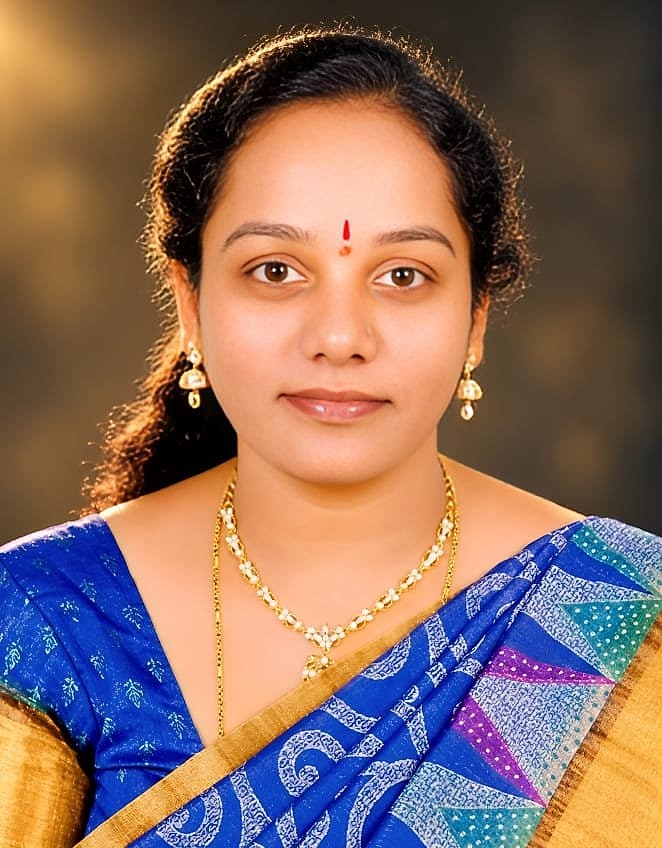
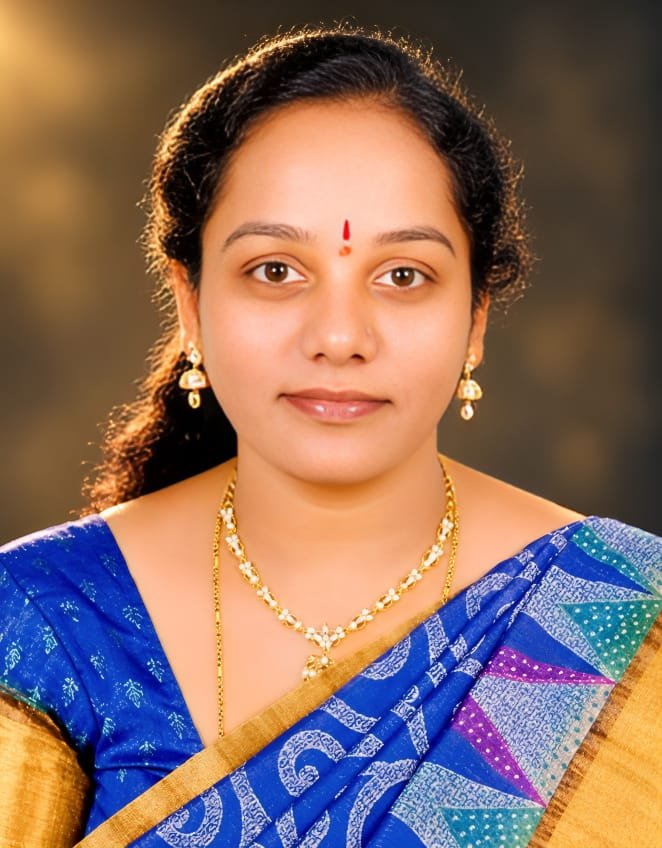
feat(leadership): display Director Divya D K in signature executive card layout with high-res portrait

diff --git a/src/app/about/page.tsx b/src/app/about/page.tsx
@@ -118,66 +118,43 @@ export default function AboutPage() {
                 turnkey technology solutions that endure.
               </FadeIn>
 
-              {/* Executive Board of Directors with Prominent Portrait Cards */}
+              {/* Executive Credentials Callout */}
               <FadeIn
                 mode="view"
-                delay={0.38}
+                delay={0.36}
                 y={14}
-                className="p-5 sm:p-6 rounded-3xl border border-brand-border bg-slate-50/80 shadow-xs space-y-4"
+                className="p-5 sm:p-6 rounded-3xl border border-brand-border bg-slate-50/80 shadow-xs space-y-3"
               >
                 <div className="flex items-center justify-between">
                   <p className="text-xs uppercase font-bold tracking-wider text-brand-blue flex items-center gap-1.5">
                     <ShieldCheck className="w-4 h-4 text-brand-blue" />
-                    <span>Executive Board of Directors</span>
+                    <span>Executive Leadership &amp; Governance</span>
                   </p>
-                  <span className="text-xs text-slate-500 font-medium">New Link Technologies Bangalore Pvt. Ltd.</span>
+                  <span className="text-xs text-slate-500 font-medium">Headquartered in Bangalore</span>
                 </div>
 
-                <div className="grid grid-cols-1 sm:grid-cols-2 gap-4 pt-1">
-                  {COMPANY_DETAILS.leadership.directors.map((director) => (
-                    <div
-                      key={director.name}
-                      className="group relative rounded-2xl overflow-hidden border-4 border-white shadow-xl bg-slate-900 aspect-3/4 flex flex-col justify-end"
-                    >
-                      <Image
-                        src={director.image}
-                        alt={`${director.name} - ${director.role}, ${COMPANY_DETAILS.name}`}
-                        fill
-                        className="object-cover object-top group-hover:scale-105 transition-transform duration-500"
-                      />
-                      <div className="absolute inset-0 bg-linear-to-t from-slate-950/95 via-slate-950/40 to-transparent" />
-                      <div className="relative z-10 p-4 text-white">
-                        <span className="inline-block text-[10px] font-bold uppercase tracking-wider text-blue-300 bg-blue-900/70 backdrop-blur-xs px-2.5 py-0.5 rounded-full border border-blue-400/30 mb-1.5">
-                          {director.role}
-                        </span>
-                        <h4 className="font-heading font-bold text-lg text-white leading-tight">
-                          {director.name}
-                        </h4>
-                        <p className="text-xs text-blue-200 leading-tight pt-0.5 font-medium">
-                          Director, New Link Technologies Bangalore Pvt. Ltd.
-                        </p>
-                        <p className="text-[11px] text-blue-300/90 font-medium pt-1">
-                          {director.badges[0]}
-                        </p>
-                        <div className="pt-2 flex flex-col gap-1 text-[11px] text-slate-300 border-t border-white/15 mt-2">
-                          <a
-                            href={`tel:${director.phoneRaw}`}
-                            className="hover:text-blue-300 transition-colors flex items-center gap-1.5 font-medium"
-                          >
-                            <Phone className="w-3 h-3 text-blue-400 shrink-0" />
-                            <span>{director.phone}</span>
-                          </a>
-                          <a
-                            href={`mailto:${director.email}`}
-                            className="hover:text-blue-300 transition-colors flex items-center gap-1.5 font-medium truncate"
-                          >
-                            <Mail className="w-3 h-3 text-blue-400 shrink-0" />
-                            <span className="truncate">{director.email}</span>
-                          </a>
-                        </div>
-                      </div>
-                    </div>
-                  ))}
+                <div className="grid grid-cols-1 sm:grid-cols-2 gap-3 pt-1 text-xs text-brand-navy font-semibold">
+                  <div className="flex items-center gap-2 p-3 rounded-2xl bg-white border border-slate-200/80 shadow-2xs">
+                    <CheckCircle2 className="w-4 h-4 text-brand-blue shrink-0" />
+                    <span>Director-Led Quality Oversight</span>
+                  </div>
+                  <div className="flex items-center gap-2 p-3 rounded-2xl bg-white border border-slate-200/80 shadow-2xs">
+                    <CheckCircle2 className="w-4 h-4 text-brand-blue shrink-0" />
+                    <span>24/7 Enterprise SLAs &amp; Field Support</span>
+                  </div>
+                </div>
+
+                <div className="pt-2 flex flex-col sm:flex-row items-start sm:items-center justify-between gap-2 text-xs border-t border-slate-200/60">
+                  <span className="text-slate-600 font-medium">
+                    Executive Board of Directors: <strong>M.G. Girish</strong> &amp; <strong>Divya D K</strong>
+                  </span>
+                  <a
+                    href="#executive-leadership"
+                    className="inline-flex items-center gap-1 font-bold text-brand-blue hover:text-blue-700 transition-colors"
+                  >
+                    <span>View Leadership Profiles</span>
+                    <ArrowRight className="w-3.5 h-3.5" />
+                  </a>
                 </div>
               </FadeIn>
             </div>
@@ -391,7 +368,7 @@ export default function AboutPage() {
       </section>
 
       {/* Executive Leadership Section */}
-      <section className="py-16 md:py-24 bg-white border-b border-brand-border">
+      <section id="executive-leadership" className="py-16 md:py-24 bg-white border-b border-brand-border scroll-mt-24">
         <Container size="default">
           <div className="text-center max-w-3xl mx-auto mb-14">
             <FadeIn as="span" mode="view" delay={0.04} y={8} className="eyebrow-badge mb-3">
@@ -407,71 +384,81 @@ export default function AboutPage() {
               className="text-2xl sm:text-3xl md:text-4xl font-extrabold font-heading text-brand-navy tracking-tight"
             />
             <FadeIn as="p" mode="view" delay={0.22} y={14} className="mt-3 text-base text-brand-secondary">
-              Official professional profiles of the executive leadership guiding New Link Technologies Bangalore Pvt. Ltd. across Karnataka and nationwide.
+              Official leadership profiles of the directors guiding New Link Technologies Bangalore Pvt. Ltd. with technical precision, operational excellence, and enduring commitment.
             </FadeIn>
           </div>
 
           <div className="space-y-12">
             {/* Director 1: M.G. Girish */}
-            <div className="max-w-4xl mx-auto rounded-3xl border border-brand-border bg-slate-50/70 p-8 sm:p-12 shadow-sm">
+            <FadeIn
+              mode="view"
+              delay={0.12}
+              y={20}
+              className="max-w-4xl mx-auto rounded-3xl border border-brand-border bg-slate-50/70 p-6 sm:p-10 md:p-12 shadow-sm hover:shadow-md transition-shadow"
+            >
               <div className="grid grid-cols-1 md:grid-cols-12 gap-8 items-center">
                 <div className="md:col-span-5 flex justify-center">
-                  <div className="relative w-64 h-84 rounded-2xl overflow-hidden border-4 border-white shadow-xl bg-slate-900 aspect-3/4">
+                  <div className="relative w-64 h-84 sm:w-72 sm:h-96 rounded-2xl overflow-hidden border-4 border-white shadow-xl bg-slate-900 aspect-3/4">
                     <Image
                       src="/leadership/director-mg-girish.jpg"
-                      alt="M.G. Girish - Director, New Link Technologies Bangalore Pvt. Ltd."
+                      alt="M.G. Girish - Director, New Link Technologies"
                       fill
+                      priority
                       className="object-cover object-top"
                     />
-                    <div className="absolute inset-0 bg-linear-to-t from-brand-navy/85 via-transparent to-transparent" />
-                    <div className="absolute bottom-3 left-3 right-3 text-white text-center">
-                      <p className="font-heading font-bold text-base">M.G. Girish</p>
-                      <p className="text-xs text-blue-200">Director, New Link Technologies Bangalore Pvt. Ltd.</p>
+                    <div className="absolute inset-0 bg-linear-to-t from-brand-navy/90 via-transparent to-transparent" />
+                    <div className="absolute bottom-3.5 left-3 right-3 text-white text-center">
+                      <p className="font-heading font-bold text-lg">M.G. Girish</p>
+                      <p className="text-xs text-blue-200 font-medium">Director, New Link Technologies</p>
                     </div>
                   </div>
                 </div>
 
                 <div className="md:col-span-7 space-y-4 text-center md:text-left">
-                  <FadeIn as="span" mode="view" delay={0.04} y={8} className="eyebrow-badge">
-                    Executive Profile
-                  </FadeIn>
+                  <div className="inline-flex items-center gap-2 text-xs font-bold uppercase tracking-wider text-brand-blue">
+                    <span className="w-5 h-0.5 bg-brand-blue" />
+                    <span>LEADERSHIP COMMITMENT</span>
+                  </div>
                   <RevealText
                     as="h3"
                     by="word"
                     mode="view"
                     delay={0.08}
-                    stagger={0.042}
-                    text="Enterprise Technology Strategy &amp; Infrastructure Leadership"
+                    stagger={0.04}
+                    text="Driven by Precision, Value, and Enduring Integrity"
                     className="text-2xl sm:text-3xl font-extrabold font-heading text-brand-navy leading-snug"
                   />
-                  <FadeIn as="p" mode="view" delay={0.22} y={14} className="text-sm sm:text-base text-brand-secondary leading-relaxed">
+                  <FadeIn as="p" mode="view" delay={0.2} y={12} className="text-sm sm:text-base text-brand-secondary leading-relaxed">
+                    &ldquo;At New Link Technologies Bangalore Pvt. Ltd., our core mission is simple yet uncompromising: to provide enterprises, government bodies, and institutions with technology infrastructure that performs reliably 24/7/365. When you partner with us, you deal directly with dedicated engineers and an accountable leadership team.&rdquo;
+                  </FadeIn>
+                  <FadeIn as="p" mode="view" delay={0.24} y={12} className="text-sm sm:text-base text-brand-secondary leading-relaxed">
                     M.G. Girish brings more than 15 years of industry leadership and hands-on engineering expertise in enterprise IT systems, modular data centre integration, campus optical fiber networks, and public-sector EPC execution.
                   </FadeIn>
-                  <FadeIn as="p" mode="view" delay={0.26} y={14} className="text-sm sm:text-base text-brand-secondary leading-relaxed">
-                    As the founding Director of New Link Technologies Bangalore Pvt. Ltd., he leads technological strategy, strategic OEM partnerships, and end-to-end turnkey project delivery across Karnataka and nationwide.
-                  </FadeIn>
-                  <FadeIn mode="view" delay={0.32} y={10} className="pt-3 border-t border-slate-200 flex flex-wrap items-center justify-center md:justify-start gap-5 text-xs text-brand-navy font-semibold">
+                  <FadeIn mode="view" delay={0.28} y={10} className="pt-3 border-t border-slate-200 flex flex-wrap items-center justify-center md:justify-start gap-4 text-xs text-brand-navy font-semibold">
                     <span className="flex items-center gap-1.5">
                       <ShieldCheck className="w-4 h-4 text-brand-blue" />
-                      15+ Years Enterprise IT &amp; EPC Leadership
+                      Director-Led Quality Oversight
                     </span>
                     <span className="flex items-center gap-1.5">
                       <CheckCircle2 className="w-4 h-4 text-brand-blue" />
-                      Modular Data Centres &amp; Turnkey Infrastructure
+                      Connecting Values Across Karnataka
+                    </span>
+                    <span className="flex items-center gap-1.5">
+                      <Sparkles className="w-4 h-4 text-brand-blue" />
+                      15+ Years Enterprise IT &amp; EPC Leadership
                     </span>
                   </FadeIn>
-                  <div className="pt-2 flex flex-wrap items-center justify-center md:justify-start gap-4 text-xs">
+                  <div className="pt-2 flex flex-wrap items-center justify-center md:justify-start gap-3 text-xs">
                     <a
                       href="tel:+919535314141"
-                      className="inline-flex items-center gap-1.5 font-semibold text-brand-navy hover:text-brand-blue transition-colors"
+                      className="inline-flex items-center gap-1.5 font-semibold text-brand-navy hover:text-brand-blue transition-colors bg-white px-3 py-1.5 rounded-lg border border-slate-200 shadow-2xs"
                     >
                       <Phone className="w-3.5 h-3.5 text-brand-blue" />
                       <span>+91 95353 14141</span>
                     </a>
-                    <span className="text-slate-300">|</span>
                     <a
                       href="mailto:girish.mg@newlinktec.com"
-                      className="inline-flex items-center gap-1.5 font-semibold text-brand-navy hover:text-brand-blue transition-colors"
+                      className="inline-flex items-center gap-1.5 font-semibold text-brand-navy hover:text-brand-blue transition-colors bg-white px-3 py-1.5 rounded-lg border border-slate-200 shadow-2xs"
                     >
                       <Mail className="w-3.5 h-3.5 text-brand-blue" />
                       <span>girish.mg@newlinktec.com</span>
@@ -479,47 +466,54 @@ export default function AboutPage() {
                   </div>
                 </div>
               </div>
-            </div>
+            </FadeIn>
 
-            {/* Director 2: D.K. Divya */}
-            <div className="max-w-4xl mx-auto rounded-3xl border border-brand-border bg-slate-50/70 p-8 sm:p-12 shadow-sm">
+            {/* Director 2: Divya D K */}
+            <FadeIn
+              mode="view"
+              delay={0.16}
+              y={20}
+              className="max-w-4xl mx-auto rounded-3xl border border-brand-border bg-slate-50/70 p-6 sm:p-10 md:p-12 shadow-sm hover:shadow-md transition-shadow"
+            >
               <div className="grid grid-cols-1 md:grid-cols-12 gap-8 items-center">
                 <div className="md:col-span-5 flex justify-center">
-                  <div className="relative w-64 h-84 rounded-2xl overflow-hidden border-4 border-white shadow-xl bg-slate-900 aspect-3/4">
+                  <div className="relative w-64 h-84 sm:w-72 sm:h-96 rounded-2xl overflow-hidden border-4 border-white shadow-xl bg-slate-900 aspect-3/4">
                     <Image
                       src="/leadership/director-divya-dk.jpg"
-                      alt="D.K. Divya - Director, New Link Technologies Bangalore Pvt. Ltd."
+                      alt="Divya D K - Director, New Link Technologies"
                       fill
+                      priority
                       className="object-cover object-top"
                     />
-                    <div className="absolute inset-0 bg-linear-to-t from-brand-navy/85 via-transparent to-transparent" />
-                    <div className="absolute bottom-3 left-3 right-3 text-white text-center">
-                      <p className="font-heading font-bold text-base">D.K. Divya</p>
-                      <p className="text-xs text-blue-200">Director, New Link Technologies Bangalore Pvt. Ltd.</p>
+                    <div className="absolute inset-0 bg-linear-to-t from-brand-navy/90 via-transparent to-transparent" />
+                    <div className="absolute bottom-3.5 left-3 right-3 text-white text-center">
+                      <p className="font-heading font-bold text-lg">Divya D K</p>
+                      <p className="text-xs text-blue-200 font-medium">Director, New Link Technologies</p>
                     </div>
                   </div>
                 </div>
 
                 <div className="md:col-span-7 space-y-4 text-center md:text-left">
-                  <FadeIn as="span" mode="view" delay={0.04} y={8} className="eyebrow-badge">
-                    Executive Profile
-                  </FadeIn>
+                  <div className="inline-flex items-center gap-2 text-xs font-bold uppercase tracking-wider text-brand-blue">
+                    <span className="w-5 h-0.5 bg-brand-blue" />
+                    <span>LEADERSHIP COMMITMENT</span>
+                  </div>
                   <RevealText
                     as="h3"
                     by="word"
                     mode="view"
                     delay={0.08}
-                    stagger={0.042}
-                    text="Operations, Administration &amp; Organizational Leadership"
+                    stagger={0.04}
+                    text="Strategic Operations, Administration & Organizational Excellence"
                     className="text-2xl sm:text-3xl font-extrabold font-heading text-brand-navy leading-snug"
                   />
-                  <FadeIn as="p" mode="view" delay={0.22} y={14} className="text-sm sm:text-base text-brand-secondary leading-relaxed">
+                  <FadeIn as="p" mode="view" delay={0.2} y={12} className="text-sm sm:text-base text-brand-secondary leading-relaxed">
                     D.K. Divya brings more than 9 years of experience in administration, human resource support, organizational operations and business coordination.
                   </FadeIn>
-                  <FadeIn as="p" mode="view" delay={0.26} y={14} className="text-sm sm:text-base text-brand-secondary leading-relaxed">
+                  <FadeIn as="p" mode="view" delay={0.24} y={12} className="text-sm sm:text-base text-brand-secondary leading-relaxed">
                     As a key member of the company&apos;s leadership team, she has contributed to the development of the organization&apos;s business framework and operational processes.
                   </FadeIn>
-                  <FadeIn mode="view" delay={0.32} y={10} className="pt-3 border-t border-slate-200 flex flex-wrap items-center justify-center md:justify-start gap-5 text-xs text-brand-navy font-semibold">
+                  <FadeIn mode="view" delay={0.28} y={10} className="pt-3 border-t border-slate-200 flex flex-wrap items-center justify-center md:justify-start gap-4 text-xs text-brand-navy font-semibold">
                     <span className="flex items-center gap-1.5">
                       <ShieldCheck className="w-4 h-4 text-brand-blue" />
                       9+ Years Operations &amp; HR Experience
@@ -528,19 +522,22 @@ export default function AboutPage() {
                       <CheckCircle2 className="w-4 h-4 text-brand-blue" />
                       Business Framework &amp; Process Governance
                     </span>
+                    <span className="flex items-center gap-1.5">
+                      <Sparkles className="w-4 h-4 text-brand-blue" />
+                      Director-Led Quality Oversight
+                    </span>
                   </FadeIn>
-                  <div className="pt-2 flex flex-wrap items-center justify-center md:justify-start gap-4 text-xs">
+                  <div className="pt-2 flex flex-wrap items-center justify-center md:justify-start gap-3 text-xs">
                     <a
                       href="tel:+919611854426"
-                      className="inline-flex items-center gap-1.5 font-semibold text-brand-navy hover:text-brand-blue transition-colors"
+                      className="inline-flex items-center gap-1.5 font-semibold text-brand-navy hover:text-brand-blue transition-colors bg-white px-3 py-1.5 rounded-lg border border-slate-200 shadow-2xs"
                     >
                       <Phone className="w-3.5 h-3.5 text-brand-blue" />
                       <span>+91 96118 54426</span>
                     </a>
-                    <span className="text-slate-300">|</span>
                     <a
                       href="mailto:divya.dk@newlinktec.com"
-                      className="inline-flex items-center gap-1.5 font-semibold text-brand-navy hover:text-brand-blue transition-colors"
+                      className="inline-flex items-center gap-1.5 font-semibold text-brand-navy hover:text-brand-blue transition-colors bg-white px-3 py-1.5 rounded-lg border border-slate-200 shadow-2xs"
                     >
                       <Mail className="w-3.5 h-3.5 text-brand-blue" />
                       <span>divya.dk@newlinktec.com</span>
@@ -548,7 +545,7 @@ export default function AboutPage() {
                   </div>
                 </div>
               </div>
-            </div>
+            </FadeIn>
           </div>
         </Container>
       </section>

diff --git a/src/app/services/page.tsx b/src/app/services/page.tsx
@@ -49,6 +49,24 @@ export default function ServicesPage() {
       {/* Services Grid Section */}
       <section className="py-16 md:py-24">
         <Container size="default">
+          <div className="text-center max-w-3xl mx-auto mb-12">
+            <FadeIn as="span" mode="view" delay={0.04} y={8} className="eyebrow-badge mb-3">
+              Specialized Infrastructure
+            </FadeIn>
+            <RevealText
+              as="h2"
+              by="word"
+              mode="view"
+              delay={0.08}
+              stagger={0.045}
+              text="Our Specialized Service Capabilities"
+              className="text-2xl sm:text-3xl md:text-4xl font-extrabold font-heading text-brand-navy tracking-tight"
+            />
+            <FadeIn as="p" mode="view" delay={0.22} y={14} className="mt-3 text-base text-brand-secondary">
+              End-to-end design, deployment, testing, and lifecycle maintenance delivered across Karnataka and nationwide.
+            </FadeIn>
+          </div>
+
           <StaggerGroup
             mode="view"
             stagger={0.06}

diff --git a/src/data/company.ts b/src/data/company.ts
@@ -51,7 +51,7 @@ export const COMPANY_DETAILS = {
         ],
       },
       {
-        name: "D.K. Divya",
+        name: "Divya D K",
         role: "Director",
         company: "New Link Technologies Bangalore Pvt. Ltd.",
         phone: "+91 96118 54426",
